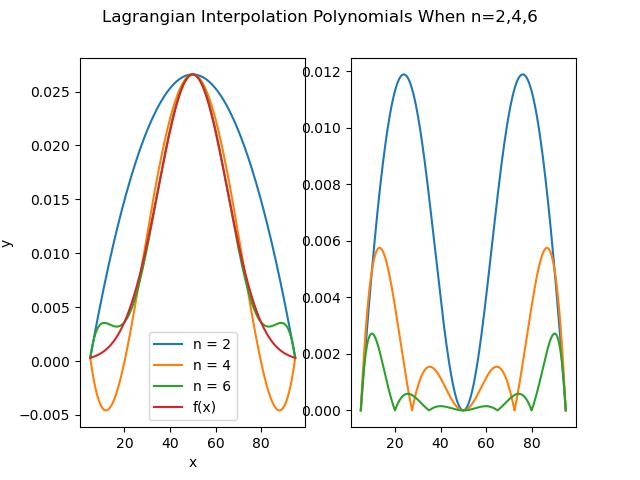
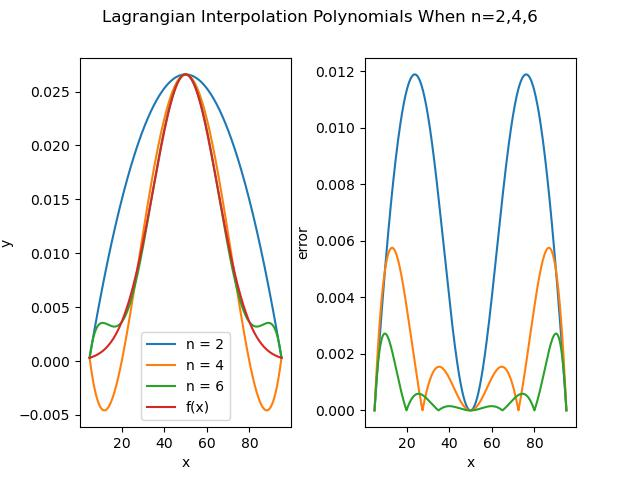
作业4完成

diff --git a/作业4/4_1.py b/作业4/4_1.py
@@ -42,11 +42,13 @@ def main():
     x_0 = 5.0
     x_n = 95.0
     n_list = [2, 4, 6]
+    n = 2
+    max_error = 0.0005
     line_y = []
     for x in np.arange(x_0, x_n, 0.001).tolist():
         y = f(x)
         line_y.append(y)
-    for n in n_list:
+    while True:
         step = (x_n-x_0)/n
         x = np.arange(x_0, x_n + step, step).tolist()
         y = []
@@ -55,19 +57,29 @@ def main():
             y.append(y_i)
         Lag_y = LagInter(x, y)
         line_x = np.arange(min(x), max(x), 0.001).tolist()
-        plt.subplot(1, 2, 1)
-        plt.plot(line_x, Lag_y, label="n = " + str(n))
-        plt.subplot(1, 2, 2)
         error = []
         for k in range(len(Lag_y)):
             error.append(np.abs(Lag_y[k]-line_y[k]))
-        plt.plot(line_x, error, label="n = " + str(n))
+        if n in n_list:
+            plt.subplot(1, 2, 1)
+            plt.plot(line_x, Lag_y, label="n = " + str(n))
+            plt.subplot(1, 2, 2)
+            plt.plot(line_x, error, label="n = " + str(n))
+        if max(error) <= max_error:
+            print('最大误差为 %f  要求n至少为 %d' %(max_error, n))
+            break
+        n += 1
     plt.subplot(1, 2, 1)
     plt.plot(line_x, line_y, label="f(x)")
     plt.legend()
     plt.xlabel("x")
     plt.ylabel("y")
+    plt.subplot(1, 2, 2)
+    plt.xlabel("x")
+    plt.ylabel("error")
     plt.suptitle("Lagrangian Interpolation Polynomials When n=2,4,6")
+    # 设置子图间距
+    plt.subplots_adjust(wspace = 0.35)
     plt.savefig('./作业4/Result_a.jpg')
     plt.close()
     return 0
